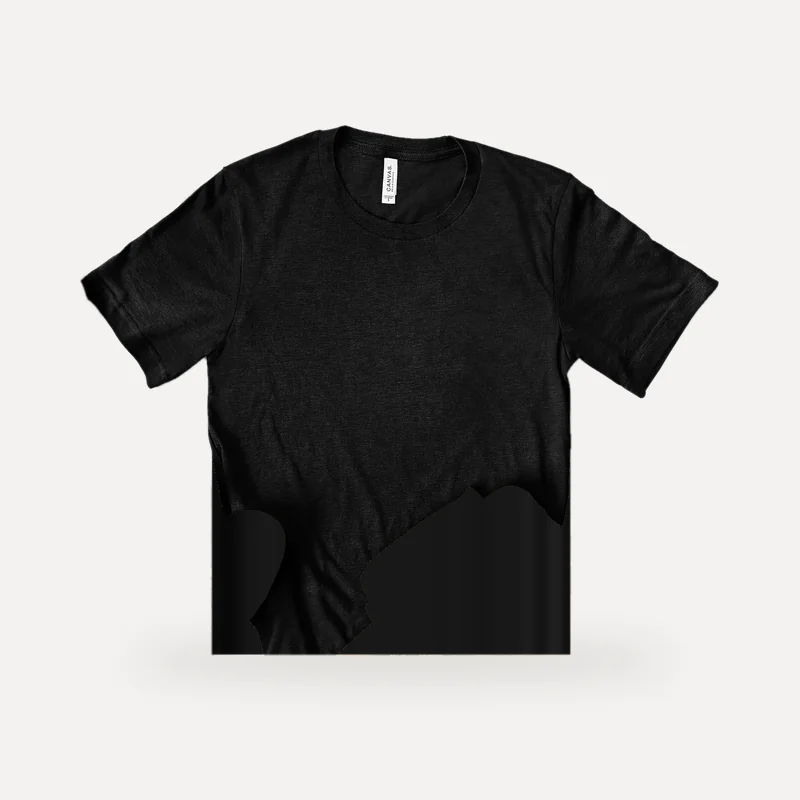
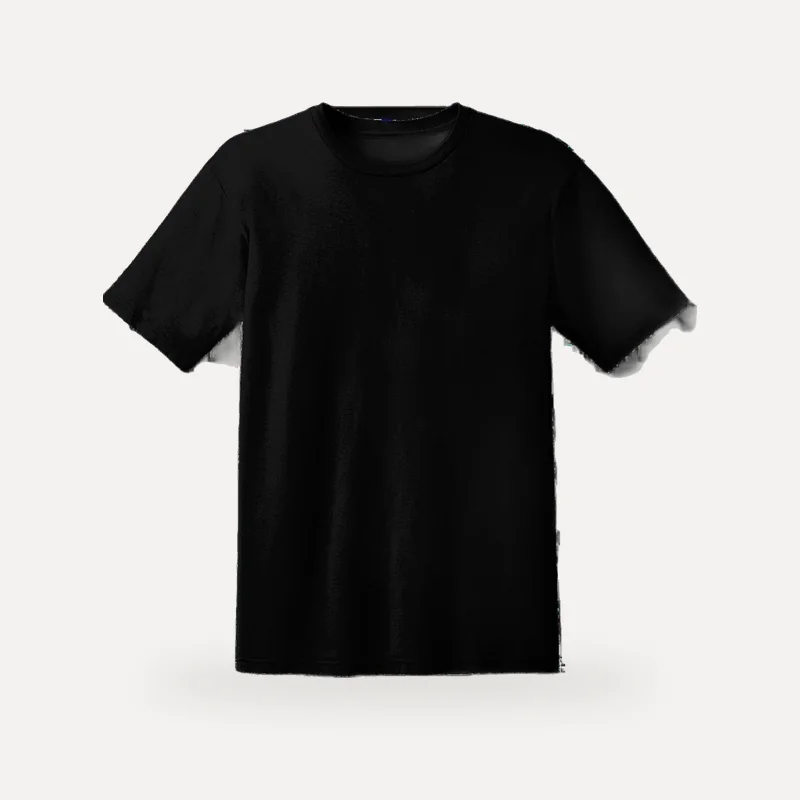
Demo 1 Phase 7: polish, quality and demo readiness
- Photos: streaks removed (FlexRun 5, Sphere Canvas Low, Converse) with
  stronger cleanup; men's crew tee re-shot from a clean source (Black
  only); new "onblack" photo mode for black-backdrop sources
- Responsive: phone checkout no longer overflows, phone order cards
  restacked, page bottom leaves room for the floating Ask Talkshop button;
  9 pages x desktop/tablet/phone x light/dark reviewed, 0 overflow
- Demo scripts A (spec), B (declined card), C (site + Talkshop) each
  passed 3 times from a fresh reset with the real LLM
- README: Demo 1 section (run, reset, demo account, scripts, notes)

234 tests passing.

diff --git a/frontend/src/pages/store/Orders.tsx b/frontend/src/pages/store/Orders.tsx
@@ -50,21 +50,22 @@ export function OrdersPage() {
             const status = STATUS[o.delivery_status ?? "processing"] ?? STATUS.processing;
             return (
               <li key={o.id}>
-                <Link to={`/orders/${o.id}`} className="flex items-center gap-5 rounded-3xl border border-line p-5 hover:border-line-strong transition-colors">
-                  <div className="flex -space-x-4">
-                    {o.lines.slice(0, 3).map((l) => (
-                      <div key={l.sku} className="w-16 h-16 rounded-2xl bg-photo overflow-hidden border-2 border-canvas">
+                <Link to={`/orders/${o.id}`} className="flex items-center gap-3 sm:gap-5 rounded-3xl border border-line p-4 sm:p-5 hover:border-line-strong transition-colors">
+                  <div className="flex -space-x-4 shrink-0">
+                    {o.lines.slice(0, 3).map((l, i) => (
+                      <div key={l.sku} className={`w-14 h-14 sm:w-16 sm:h-16 rounded-2xl bg-photo overflow-hidden border-2 border-canvas ${i > 0 ? "hidden sm:block" : ""}`}>
                         {l.image_url && <img src={l.image_url} alt="" className="h-full w-full object-cover" />}
                       </div>
                     ))}
                   </div>
                   <div className="flex-1 min-w-0">
-                    <div className="flex items-center gap-2"><p className="font-semibold">Order {o.id}</p><Badge tone={status.tone}>{status.label}</Badge></div>
+                    <div className="flex flex-wrap items-center gap-x-2 gap-y-1"><p className="font-semibold">Order {o.id}</p><Badge tone={status.tone}>{status.label}</Badge></div>
                     <p className="text-sm text-muted line-clamp-1">{o.lines.map((l) => l.name).join(", ")}</p>
-                    <p className="text-sm text-muted">{o.created_at ? `Placed ${niceDate(o.created_at)}` : ""}{o.delivery_date ? ` · Arrives ${niceDate(o.delivery_date)}` : ""}</p>
+                    <p className="text-sm text-muted">{o.delivery_date ? `Arrives ${niceDate(o.delivery_date)}` : o.created_at ? `Placed ${niceDate(o.created_at)}` : ""}</p>
+                    <p className="sm:hidden font-semibold tabular-nums mt-1">{money(o.total)}</p>
                   </div>
-                  <p className="font-semibold tabular-nums">{money(o.total)}</p>
-                  <ChevronRight size={18} className="text-muted" />
+                  <p className="hidden sm:block font-semibold tabular-nums">{money(o.total)}</p>
+                  <ChevronRight size={18} className="text-muted shrink-0" />
                 </Link>
               </li>
             );

diff --git a/frontend/src/pages/store/Checkout.tsx b/frontend/src/pages/store/Checkout.tsx
@@ -162,17 +162,20 @@ export default function CheckoutPage() {
           <Section n={4} title={`Items (${co.item_count})`} icon={null}>
             <ul className="divide-y divide-line">
               {co.lines.map((l) => (
-                <li key={l.line_id} className="py-4 first:pt-0 last:pb-0 flex gap-4 items-center">
-                  <div className="w-20 h-20 rounded-2xl bg-photo overflow-hidden shrink-0">
+                <li key={l.line_id} className="py-4 first:pt-0 last:pb-0 flex gap-3 sm:gap-4 items-center">
+                  <div className="w-16 h-16 sm:w-20 sm:h-20 rounded-2xl bg-photo overflow-hidden shrink-0">
                     {l.image_url && <img src={l.image_url} alt={l.name} className="h-full w-full object-cover" />}
                   </div>
                   <div className="flex-1 min-w-0">
-                    <p className="font-medium line-clamp-1">{l.name}</p>
+                    <p className="font-medium line-clamp-2 sm:line-clamp-1">{l.name}</p>
                     <p className="text-sm text-muted">{l.size ? `${l.option_label} ${l.size} · ` : ""}{l.color}</p>
                     {!l.in_stock && <p className="text-sm text-bad">Not enough stock for this quantity.</p>}
                   </div>
-                  <Stepper value={l.quantity} busy={busy} onChange={(n) => change({ quantities: { [l.line_id]: n } })} />
-                  <p className="w-20 text-right font-semibold tabular-nums">{money(l.line_total)}</p>
+                  {/* Price above the quantity on phones; side by side on wider screens */}
+                  <div className="flex flex-col-reverse sm:flex-row items-end sm:items-center gap-2 sm:gap-4 shrink-0">
+                    <Stepper value={l.quantity} busy={busy} onChange={(n) => change({ quantities: { [l.line_id]: n } })} />
+                    <p className="sm:w-20 text-right font-semibold tabular-nums">{money(l.line_total)}</p>
+                  </div>
                 </li>
               ))}
             </ul>

diff --git a/frontend/src/layouts/StoreLayout.tsx b/frontend/src/layouts/StoreLayout.tsx
@@ -57,7 +57,8 @@ function StoreFooter() {
           </ul>
         </div>
       </div>
-      <div className="border-t border-line py-5 text-center text-xs text-faint">© ShopSphere · Demo store</div>
+      {/* Extra room on phones so the floating "Ask Talkshop" button never covers content */}
+      <div className="border-t border-line pt-5 pb-24 lg:pb-5 text-center text-xs text-faint">© ShopSphere · Demo store</div>
     </footer>
   );
 }

diff --git a/scripts/build_shopsphere_catalog.py b/scripts/build_shopsphere_catalog.py
@@ -267,8 +267,8 @@ add("SSP060", "Sphere Sound Mini", "Sphere Tech", "electronics", "electronics", 
 CURATION = {'SSP001': {'colors': [['Black', {'pixabay_id': 115151, 'mode': 'largest'}],
                        ['White', {'pixabay_id': 77085, 'mode': 'studio'}],
                        ['Blue', {'pixabay_id': 5351339, 'mode': 'studio'}]]},
- 'SSP002': {'colors': [['Orange', {'pixabay_id': 2768733, 'mode': 'studio'}],
-                       ['Green', {'pixabay_id': 2768760, 'mode': 'studio'}]],
+ 'SSP002': {'colors': [['Orange', {'pixabay_id': 2768733, 'mode': 'largest', 'kernel': 25}],
+                       ['Green', {'pixabay_id': 2768760, 'mode': 'largest', 'kernel': 25}]],
             'out_of_stock': [{'size': '12', 'color': 'Green'}]},
  'SSP003': {'colors': [['Blue', {'pixabay_id': 371625, 'mode': 'studio'}],
                        ['Pink', {'pixabay_id': 371624, 'mode': 'studio'}]]},
@@ -287,7 +287,7 @@ CURATION = {'SSP001': {'colors': [['Black', {'pixabay_id': 115151, 'mode': 'larg
             'review_count': 1180,
             'description': 'A simple canvas low-top with a cushioned footbed.',
             'tags': ['casual', 'canvas', 'everyday', 'lightweight'],
-            'colors': [['Navy', {'pixabay_id': 2743420, 'mode': 'largest', 'kernel': 17}]]},
+            'colors': [['Navy', {'pixabay_id': 2743420, 'mode': 'largest', 'kernel': 25}]]},
  'SSP009': {'name': 'Adidas NMD_R1',
             'price': 149.99,
             'rating': 4.6,
@@ -295,9 +295,9 @@ CURATION = {'SSP001': {'colors': [['Black', {'pixabay_id': 115151, 'mode': 'larg
             'description': 'Boost-cushioned street sneaker with a sock-like knit upper.',
             'tags': ['casual', 'streetwear', 'cushioned', 'knit'],
             'colors': [['Black', {'pixabay_id': 5418990, 'mode': 'studio'}]]},
- 'SSP010': {'colors': [['Green', {'pixabay_id': 2768263, 'mode': 'largest', 'kernel': 17}],
-                       ['Red', {'pixabay_id': 2768218, 'mode': 'largest', 'kernel': 17}],
-                       ['Purple', {'pixabay_id': 2768260, 'mode': 'largest', 'kernel': 17}]]},
+ 'SSP010': {'colors': [['Green', {'pixabay_id': 2768263, 'mode': 'largest', 'kernel': 25}],
+                       ['Red', {'pixabay_id': 2768218, 'mode': 'largest', 'kernel': 25}],
+                       ['Purple', {'pixabay_id': 2768260, 'mode': 'largest', 'kernel': 25}]]},
  'SSP011': {'colors': [['White', {'pixabay_id': 4762266, 'mode': 'studio'}],
                        ['Lilac', {'pixabay_id': 2732693, 'mode': 'studio'}]]},
  'SSP012': {'colors': [['Brown', {'pixabay_id': 3743542, 'mode': 'studio'}]]},
@@ -358,10 +358,7 @@ CURATION = {'SSP001': {'colors': [['Black', {'pixabay_id': 115151, 'mode': 'larg
                        ['Pink', {'pixabay_id': 3740347, 'mode': 'studio'}],
                        ['Navy', {'pixabay_id': 2947549, 'mode': 'studio'}]]},
  'SSP027': {'colors': [['Red', {'pixabay_id': 3183681, 'mode': 'studio'}]]},
- 'SSP028': {'colors': [['Black', {'pixabay_id': 5257441, 'mode': 'diff', 'ref_pixabay_id': 5257434}],
-                       ['White', {'pixabay_id': 5257434, 'mode': 'diff', 'ref_pixabay_id': 5257441}],
-                       ['Green', {'pixabay_id': 5257443, 'mode': 'diff', 'ref_pixabay_id': 5257434}],
-                       ['Grey', {'pixabay_id': 5257432, 'mode': 'diff', 'ref_pixabay_id': 5257434}]]},
+ 'SSP028': {'colors': [['Black', {'pixabay_id': 1886001, 'mode': 'largest', 'kernel': 17}]]},
  'SSP029': {'colors': [['Black', {'pixabay_id': 7866, 'mode': 'studio'}]]},
  'SSP030': {'colors': [['Light Blue', {'pixabay_id': 2566082, 'mode': 'studio'}]]},
  'SSP031': {'name': 'Printed Camp Shirt',

diff --git a/scripts/fetch_catalog_photos.py b/scripts/fetch_catalog_photos.py
@@ -17,6 +17,7 @@ Processing modes per photo:
   largest  same, then keep only the largest shape (drops separate props)
   diff     for a photo shoot repeated in several colours: the pixels that differ
            from the reference photo are exactly the product — no guessing
+  onblack  product on a plain black backdrop: separate by brightness
 
 Run it in its OWN virtual environment — rembg needs numpy 2, which conflicts
 with the app's packages (pandas/scikit-learn/pyarrow need numpy 1.x):
@@ -111,6 +112,21 @@ def diff_cut(img: Image.Image, ref: Image.Image) -> Image.Image:
     return out
 
 
+def black_cut(img: Image.Image, kernel: int) -> Image.Image:
+    """Product shot on a plain black backdrop: anything clearly brighter than
+    black is the product. Openings in both directions drop the thin
+    stretched-edge streaks some sources have."""
+    a = np.asarray(img, dtype=np.int16)
+    mask = a.max(axis=2) > 45
+    mask = ndimage.binary_opening(mask, structure=np.ones((kernel, 1)))
+    mask = ndimage.binary_opening(mask, structure=np.ones((1, kernel)))
+    mask = keep_largest(ndimage.binary_fill_holes(ndimage.binary_closing(mask, iterations=3)))
+    alpha = Image.fromarray((mask * 255).astype("uint8")).filter(ImageFilter.GaussianBlur(1.0))
+    out = img.convert("RGBA")
+    out.putalpha(alpha)
+    return out
+
+
 def compose(cut: Image.Image) -> Image.Image:
     """Centre the cut-out on the studio backdrop with a soft floor shadow."""
     bbox = cut.getchannel("A").point(lambda v: 255 if v > 20 else 0).getbbox()
@@ -157,7 +173,9 @@ def main():
                 if dest.exists() and not refresh and done.get("pixabay_id") == photo["pixabay_id"]:
                     continue
                 hit, img = fetch(client, key, photo["pixabay_id"])
-                if photo["mode"] == "diff":
+                if photo["mode"] == "onblack":
+                    cut = black_cut(img, photo.get("kernel", 25))
+                elif photo["mode"] == "diff":
                     _, ref = fetch(client, key, photo["ref_pixabay_id"])
                     cut = diff_cut(img, ref)
                 else:

diff --git a/docs/demo-1-shopsphere-talkshop-plan.md b/docs/demo-1-shopsphere-talkshop-plan.md
@@ -16,7 +16,7 @@
 
 ### Progress
 
-**Phases approved: 6 / 8 · Steps done: 58 / 64** · Phase 6 👀 ready for your review
+**Phases approved: 7 / 8 · Steps done: 64 / 64** · Phase 7 👀 ready for your review (final)
 
 | Phase | Name | Steps | Status |
 |---|---|---|---|
@@ -26,8 +26,8 @@
 | 3 | Talkshop orchestrator (AI layer) | 12 / 12 | ✅ Approved |
 | 4 | ShopSphere storefront (website) | 10 / 10 | ✅ Approved |
 | 5 | Talkshop panel (inside ShopSphere) | 11 / 11 | ✅ Approved |
-| 6 | Connecting ShopSphere and Talkshop | 6 / 6 | 👀 Ready for your review |
-| 7 | Polish, quality and demo readiness | 0 / 6 | ⬜ Not started |
+| 6 | Connecting ShopSphere and Talkshop | 6 / 6 | ✅ Approved |
+| 7 | Polish, quality and demo readiness | 6 / 6 | 👀 Ready for your review |
 
 Status key: ⬜ Not started · 🔨 In progress · 👀 Ready for your review · ✅ Approved
 
@@ -115,16 +115,16 @@ Status key: ⬜ Not started · 🔨 In progress · 👀 Ready for your review ·
 - [x] 6.5 Selection sync + View on ShopSphere
 - [x] 6.6 Orders link + My Orders refresh
 - [x] **Checkpoint:** connections I1–I9 (§5) checked in the browser *(automated in light + dark: greeting by name, page-aware greeting, picks row, selection highlight, badge 0→1→2→3→1 across chat + website adds and the chat order, View on ShopSphere, Ask Talkshop about this, chat checkout limited to chat items, My Orders refreshes live; no console errors)*
-- [ ] **Approved, proceed to Phase 7**
+- [x] **Approved, proceed to Phase 7**
 
 ### Phase 7: Polish, quality and demo readiness
-- [ ] 7.1 Visual pass (every page and card, light and dark)
-- [ ] 7.2 Ease-of-use pass (§4.3 rules)
-- [ ] 7.3 Responsive pass (desktop, tablet, phone)
-- [ ] 7.4 All three demo scripts run from a reset, several times
-- [ ] 7.5 All tests green
-- [ ] 7.6 README "Demo 1" section
-- [ ] **Checkpoint:** all demo scripts run end to end with no manual fixes
+- [x] 7.1 Visual pass (every page and card, light and dark) *(streaks removed from FlexRun 5, Sphere Canvas Low and Converse; men's crew tee re-shot from a clean source, Black only)*
+- [x] 7.2 Ease-of-use pass (§4.3 rules) *(chips for every choice, one primary action per card, no dead ends, unavailable options visible with reason, status while waiting, all amounts from the server)*
+- [x] 7.3 Responsive pass (desktop, tablet, phone) *(9 pages × 3 sizes × 2 themes captured and reviewed; fixed phone checkout overflow, cramped phone order cards, room for the floating Ask Talkshop button; 0 overflow at every size)*
+- [x] 7.4 All three demo scripts run from a reset, several times *(A, B, C × 3 fresh rounds, 9/9 passed with the real LLM, no console errors)*
+- [x] 7.5 All tests green *(234 passed)*
+- [x] 7.6 README "Demo 1" section
+- [x] **Checkpoint:** all demo scripts run end to end with no manual fixes
 - [ ] **Approved: Demo 1 complete 🎉**
 
 ---
@@ -767,6 +767,6 @@ Browse **Shoes** → open **FlexRun 5** → **✦ Ask Talkshop about this** → 
 | **"Forgot password" changes a password with only an email** (account-takeover risk) | `POST /api/auth/reset-password` | Out of Demo 1 scope. Needs an emailed reset link |
 | ~~Payment policy capped purchases at $500~~ | `backend/payment/policy.py` | ✅ Resolved in Phase 2: limit $2,500 (step-up above) |
 | ~~Tax was 8.2%~~ | `backend/payment/policy.py` | ✅ Resolved in Phase 2: 8.25% ($129 → $10.64) |
-| Men's crew-tee photos (mock-up flat-lays) show a faint line where props covered the hem. Two Converse photos keep a thin source streak | `frontend/public/catalog/` | Phase 7 visual pass |
+| ~~Streaky / ragged photos~~ | `frontend/public/catalog/` | ✅ Fixed in Phase 7 |
 | The `rembg` photo tool needs numpy 2, which conflicts with the app's packages. It was removed from the global Python and must be run in `.venv-photos` | `scripts/fetch_catalog_photos.py` | Documented in the script header |
-| Some older dev databases still hold pre-Demo-1 data. The website runs on a separate `backend/db/demo1.db` (set with `COMMERCE_DB_PATH`) until you approve resetting `commerce.db` | `backend/db/` | Waiting for your go-ahead |
+| The demo runs on its own `backend/db/demo1.db` (`COMMERCE_DB_PATH`), so the older `commerce.db` with pre-Demo-1 data is left untouched. Resetting `commerce.db` is optional | `backend/db/` | Your call. Not needed for the demo |

diff --git a/README.md b/README.md
@@ -8,6 +8,50 @@ It's a working prototype of the same problem Stripe's [Agentic Commerce Protocol
 
 ---
 
+## Demo 1 — ShopSphere × Talkshop (branch: `demo-1-merchant-chat-assistant`)
+
+**ShopSphere** is a merchant website; **Talkshop** is its built-in shopping assistant, docked on the right of every page. The customer is already logged in. Talkshop understands the request and decides what should happen; ShopSphere's own services (catalog, inventory, cart, checkout, payment, orders) do it. Payment only ever runs when the customer taps **GO AHEAD**.
+
+Full plan, phases, decisions and checklist: [`docs/demo-1-shopsphere-talkshop-plan.md`](docs/demo-1-shopsphere-talkshop-plan.md).
+
+### Run it
+
+```powershell
+pip install -r requirements.txt            # once
+cd frontend; npm install; cd ..            # once
+# .env needs GOOGLE_API_KEY (see .env.example)
+
+# Backend, on its own demo database (your other local data is untouched)
+$env:COMMERCE_DB_PATH = "backend/db/demo1.db"
+python -m backend.db.reset_demo --yes      # fresh catalog, Kaajal's saved details, no orders
+python -m uvicorn backend.main:app --port 8000
+
+# Frontend, in a second terminal
+cd frontend; npm run dev                   # http://localhost:5173
+```
+
+Log in with the demo account (**Use demo account** on the login page): `kaajal@shopsphere.demo` / `demo1234`. Kaajal has two saved addresses and two cards: **Visa •••• 4821** (approves) and **Mastercard •••• 0019** (always declines, for the decline demo).
+
+To reset between demos: stop the backend, run `python -m backend.db.reset_demo --yes` with the same `COMMERCE_DB_PATH`, start it again.
+
+### Demo scripts
+
+| Script | What to do | What it shows |
+|---|---|---|
+| **A: the spec** | In Talkshop: *"I need running shoes under $150 for everyday running."* → **Select** Runner Pro X → size **8** → **Black** → **Yes, checkout** → **GO AHEAD** | Top 3 on the chat and the page, size/colour checked against stock, ShopSphere cart, review card ($129 + $10.64 = **$139.64**), authorized, order **SS-#####** |
+| **B: declined card** | As A, then on the review card **Change** payment → Mastercard •••• 0019 → GO AHEAD → change back to Visa → GO AHEAD | Payment not authorized, **no order created**, retry on the same checkout |
+| **C: site + Talkshop** | Shoes → FlexRun 5 → **Ask Talkshop about this** → size/colour in chat → Keep shopping → add a wallet on the website → Cart: select only the wallet → Checkout selected → Place order | One cart for both, page-aware chat, website checkout of selected items, both orders in My Orders |
+
+Things worth pointing out: typing *"go ahead"* never pays (only the button does) · the header cart badge moves when Talkshop adds items · **ⓘ How Talkshop works** in the panel shows the live agent trace (VibeCheck → SneakPeek → CartUp → GreenLight → PayIt → TrackIt) · light/dark toggle in the header.
+
+### Notes
+
+- Catalog: 60 products / 385 SKUs in `data/shopsphere_catalog.json`, built by `scripts/build_shopsphere_catalog.py`; one studio photo per colour in `frontend/public/catalog/` (Pixabay licence, sources in `data/catalog_images.json`). Regenerating photos needs its own virtualenv — see `scripts/fetch_catalog_photos.py`.
+- Product search reads only the ShopSphere catalog (`CATALOG_SOURCES=shopsphere`); the Shopify/BestBuy/DummyJSON adapters are kept but switched off.
+- Tests run on their own temporary database: `python -m pytest tests/`.
+
+---
+
 ## Version 2 — Conversational Commerce (current branch: `v2-upgrade`)
 
 Version 2 transforms TalkShop into a fully conversational single-screen experience. The entire purchase flow — search → add to cart → checkout → pay → order confirmation — happens inline in the chat. The right panel shows a live real-time trace of the 6-agent pipeline as it runs.
